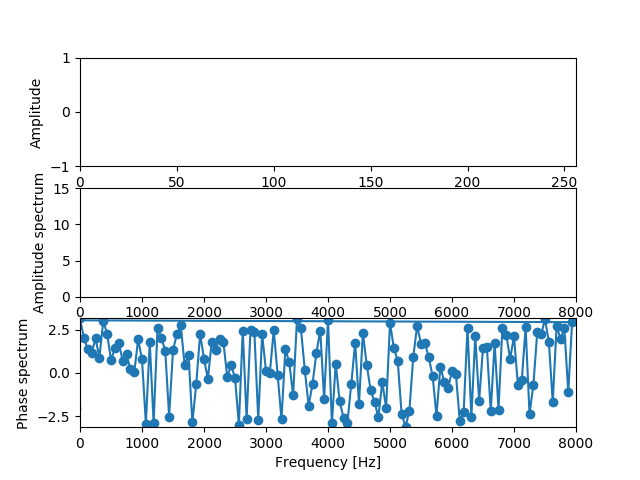
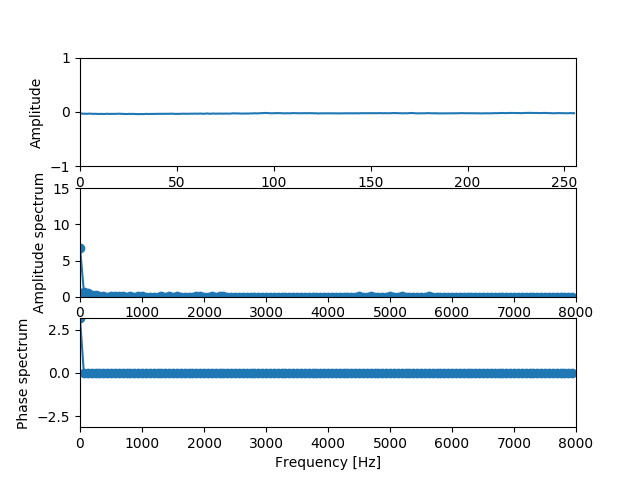
from domepi

diff --git a/Nishidome/Test_FFT.py b/Nishidome/Test_FFT.py
@@ -17,7 +17,7 @@ def main():
     wf = wave.open("pyaudio_output_200mm.wav" , "r" )
     fs = wf.getframerate()                          # サンプリング周波数
     g = wf.readframes(wf.getnframes())
-    g = np.frombuffer(g, dtype= "int16")    # -1～1に正規化
+    g = np.frombuffer(g, dtype= "int16")/32768.0    # -1～1に正規化
     wf.close()
     n0 = 0                                          # サンプリング開始位置
     N = 256                                         # サンプル数
